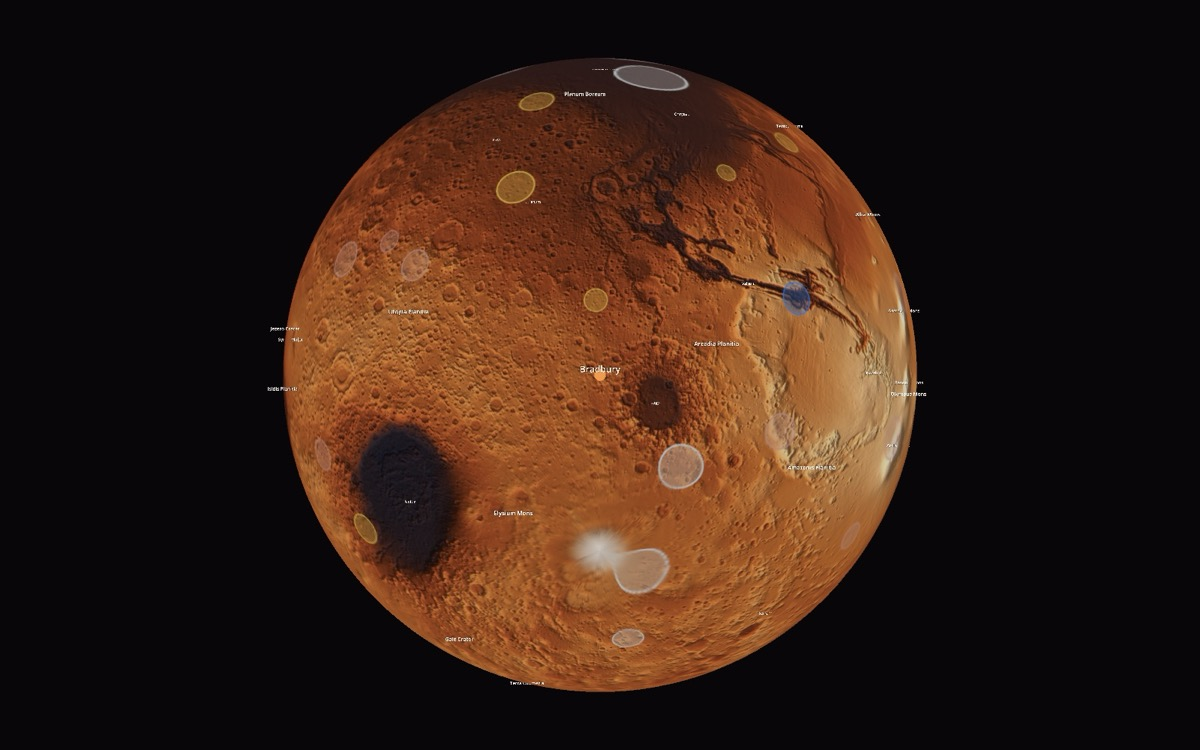
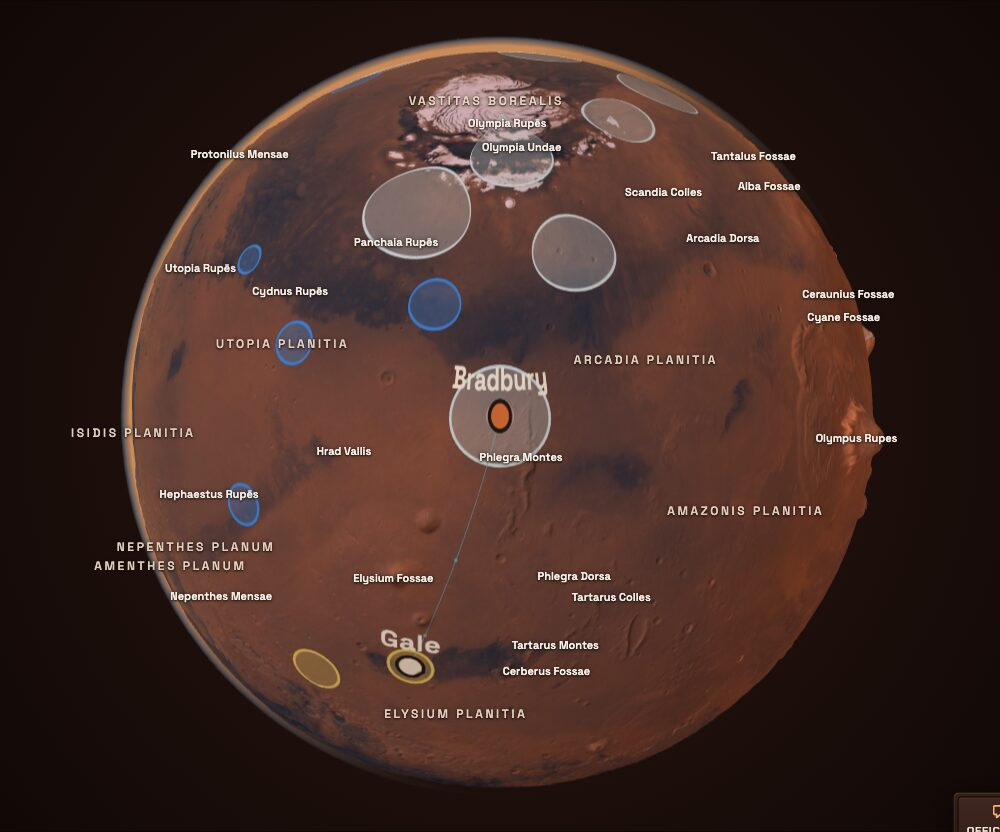
docs: retake the README screenshots for the game as it is now (#508) (#543)
New cutaway, night, Free view and plan shots from the Godot viewer's
showcase colony; the interface, a first-person dorm and the founding map
from the web game. Adds Free view and first person to the grid, renames
top.jpg to plan.jpg (it's the 2D plan now) and drops the unused hero.jpg.
The key art keeps its place, with alt text that describes it.

diff --git a/README.md b/README.md
@@ -2,7 +2,7 @@
 > ***Play the game in your browser here:*** https://mars.bryon.site/
 
 
-![A floor of the hole from above: homes, storage, a galley and furnaces in rings round the shaft](docs/images/downtown_mars_title.jpg)
+![Downtown Mars key art: the hole cut open, floors of rooms round the shaft, a drill at the bottom](docs/images/downtown_mars_title.jpg)
 
 # Downtown Mars
 *Hole sweet hole.*
@@ -15,12 +15,16 @@ Working on the game? [docs/WORKFLOW.md](docs/WORKFLOW.md) shows how a playtest n
 
 | | |
 | --- | --- |
-| ![The hole sliced open, twelve floors of rooms round the shaft](docs/images/cutaway.jpg) | ![A floor at night, lit by lamps and furnaces](docs/images/night.jpg) |
-| **Cutaway:** twelve floors of rooms, sliced open | **Night:** lamps, furnaces and grow lights |
-| ![A floor straight from above](docs/images/top.jpg) | ![Mars as a globe, with the colony and the deposits found so far](docs/images/globe.jpg) |
-| **Top:** a floor as a plan you can build on | **The map:** NASA's elevation data, deposits and sites for new holes |
+| ![The hole sliced open: floors of furnished rooms round the glass-walled shaft, the lander on the surface above](docs/images/cutaway.jpg) | ![A floor at night, lit by lamps and the smelter's furnaces](docs/images/night.jpg) |
+| **Cutaway:** the whole hole, sliced open | **Night:** lamps, furnaces and night lights |
+| ![A floor in Free view: plazas and a park round the shaft, homes, workshops and storage in the rings beyond](docs/images/floor.jpg) | ![A dormitory in first person: rows of bunk beds and lockers](docs/images/firstperson.jpg) |
+| **Free view:** a floor from above, to build on | **First person:** walk the tubes and into any room |
+| ![A floor as the 2D plan, rooms in rings round the shaft with their names and icons](docs/images/plan.jpg) | ![Mars as a globe, with two holes joined by a rover route and the deposits found so far](docs/images/globe.jpg) |
+| **Plan:** a floor as a flat map | **The map:** real Mars, deposits and sites for new holes |
 
-![The interface: resources along the top, a room's panel, and the build card for a galley with its smell spreading in red](docs/images/interface.jpg)
+![The interface: resources along the top, the build rail with Food open, a clinic's panel with the homes it reaches, event cards and the deputy's tip](docs/images/interface.jpg)
+
+The shots are from the web game (the interface, first person and the map) and the Godot viewer (the rest), in November 2026.
 
 ## What you do
 
@@ -116,7 +120,7 @@ Changes go through the simulation like any command and show in the flow report a
 
 ### The Godot viewer (experiment)
 
-A desktop viewer in Godot 4 and C# (`godot/`, Mac for now) that draws the same game: the sim runs in Node and talks to the viewer over a local socket. See `docs/PLAN-GODOT.md`. It needs Godot .NET 4.7 and the .NET SDK. (The screenshots above are from it.)
+A desktop viewer in Godot 4 and C# (`godot/`, Mac for now) that draws the same game: the sim runs in Node and talks to the viewer over a local socket. See `docs/PLAN-GODOT.md`. It needs Godot .NET 4.7 and the .NET SDK. (Most of the screenshots above are from it.)
 
 ```bash
 cd godot && dotnet build && godot-mono --path .
